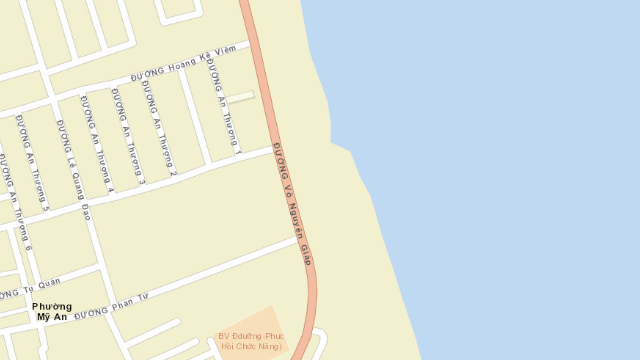
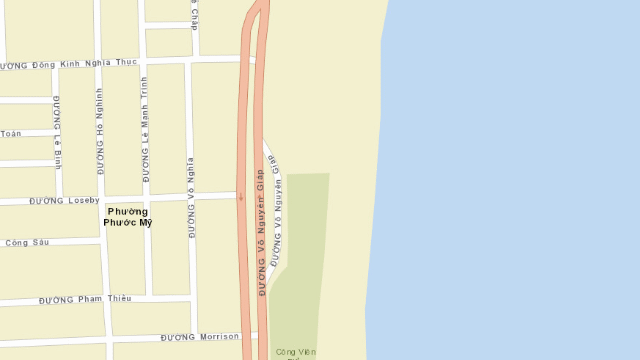
Fix November map pin: Malibu Beach Club is in Phuoc My by Bai Tam Pham Van Dong
Previous pin was ~2.8km too far south in My An. Corrected to the
venue's actual Google Place coords (16.073865, 108.246128) on the
Vo Nguyen Giap beachside strip by Bien Dong Park. Static fallback
regenerated.

Changed region(s): [[0.0, 0.0, 0.5312, 1.0], [0.4688, 0.0, 0.625, 0.55], [0.5625, 0.5806, 0.6562, 1.0]]

diff --git a/src/pages/meetup-november-2026.html b/src/pages/meetup-november-2026.html
@@ -45,8 +45,8 @@
           },
           "geo": {
             "@type": "GeoCoordinates",
-            "latitude": 16.048291,
-            "longitude": 108.2496944
+            "latitude": 16.073865,
+            "longitude": 108.246128
           }
         },
         "organizer": {
@@ -141,7 +141,7 @@
         <p class="pizza-hero__date" data-i18n="meetup_nov.hero_date">Chủ Nhật, 1 tháng 11, 2026 · từ 16:00</p>
         <p class="pizza-hero__sub" data-i18n="meetup_nov.hero_subtitle">Ngay trên bãi biển đường Võ Nguyên Giáp · từ 16:00, đến trễ hơn cũng được</p>
         <div class="pizza-hero__ctas">
-          <a class="btn-primary" href="https://www.google.com/maps/dir/?api=1&destination=16.048291%2C108.2496944" target="_blank" rel="noopener" data-i18n="meetup_nov.hero_cta_primary">Chỉ đường</a>
+          <a class="btn-primary" href="https://www.google.com/maps/dir/?api=1&destination=16.073865%2C108.246128" target="_blank" rel="noopener" data-i18n="meetup_nov.hero_cta_primary">Chỉ đường</a>
         </div>
       </div>
     </div>
@@ -182,9 +182,9 @@
           <strong data-i18n="meetup_nov.venue_addr_label">Địa chỉ:</strong>
           <span data-i18n="meetup_nov.venue_addr">Bãi tắm, 3 Võ Nguyên Giáp, An Hải, Đà Nẵng 550000</span>
         </p>
-        <div class="meetup-map venue-map" data-lat="16.048291" data-lng="108.2496944" data-zoom="16" style="background-image:url(/images/map-meetup-november-2026.png)" role="img" aria-label="Map of Malibu Beach Club, Da Nang"></div>
+        <div class="meetup-map venue-map" data-lat="16.073865" data-lng="108.246128" data-zoom="16" style="background-image:url(/images/map-meetup-november-2026.png)" role="img" aria-label="Map of Malibu Beach Club, Da Nang"></div>
         <p>
-          <a class="btn-outline" href="https://www.google.com/maps/dir/?api=1&destination=16.048291%2C108.2496944" target="_blank" rel="noopener" data-i18n="meetup_nov.venue_cta_directions">Chỉ đường trên Google Maps →</a>
+          <a class="btn-outline" href="https://www.google.com/maps/dir/?api=1&destination=16.073865%2C108.246128" target="_blank" rel="noopener" data-i18n="meetup_nov.venue_cta_directions">Chỉ đường trên Google Maps →</a>
         </p>
       </article>
     </div>
@@ -210,7 +210,7 @@
             <div>
               <span class="facts__label" data-i18n="meetup_nov.details_loc_label">Địa điểm</span>
               <span class="facts__value">
-                <a href="https://www.google.com/maps/search/?api=1&query=16.048291%2C108.2496944" target="_blank" rel="noopener" data-i18n="meetup_nov.details_loc">Malibu Beach Club, 3 Võ Nguyên Giáp, An Hải, Đà Nẵng</a>
+                <a href="https://www.google.com/maps/search/?api=1&query=16.073865%2C108.246128" target="_blank" rel="noopener" data-i18n="meetup_nov.details_loc">Malibu Beach Club, 3 Võ Nguyên Giáp, An Hải, Đà Nẵng</a>
               </span>
             </div>
           </li>
